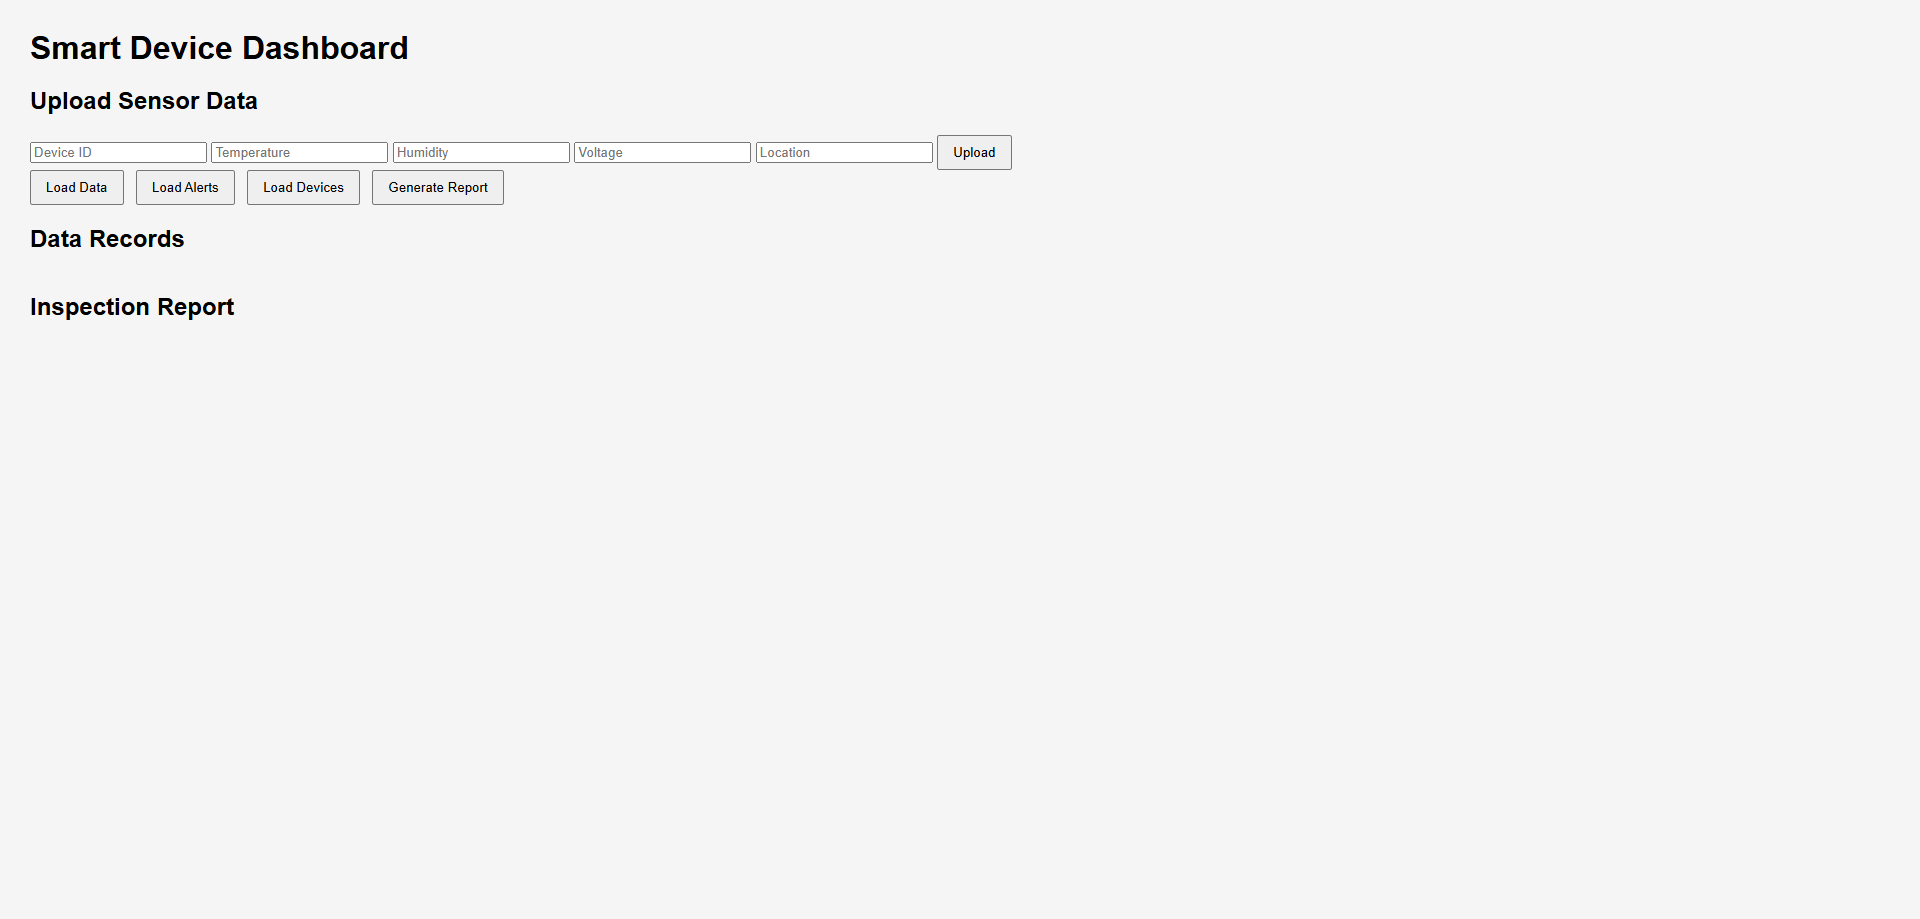
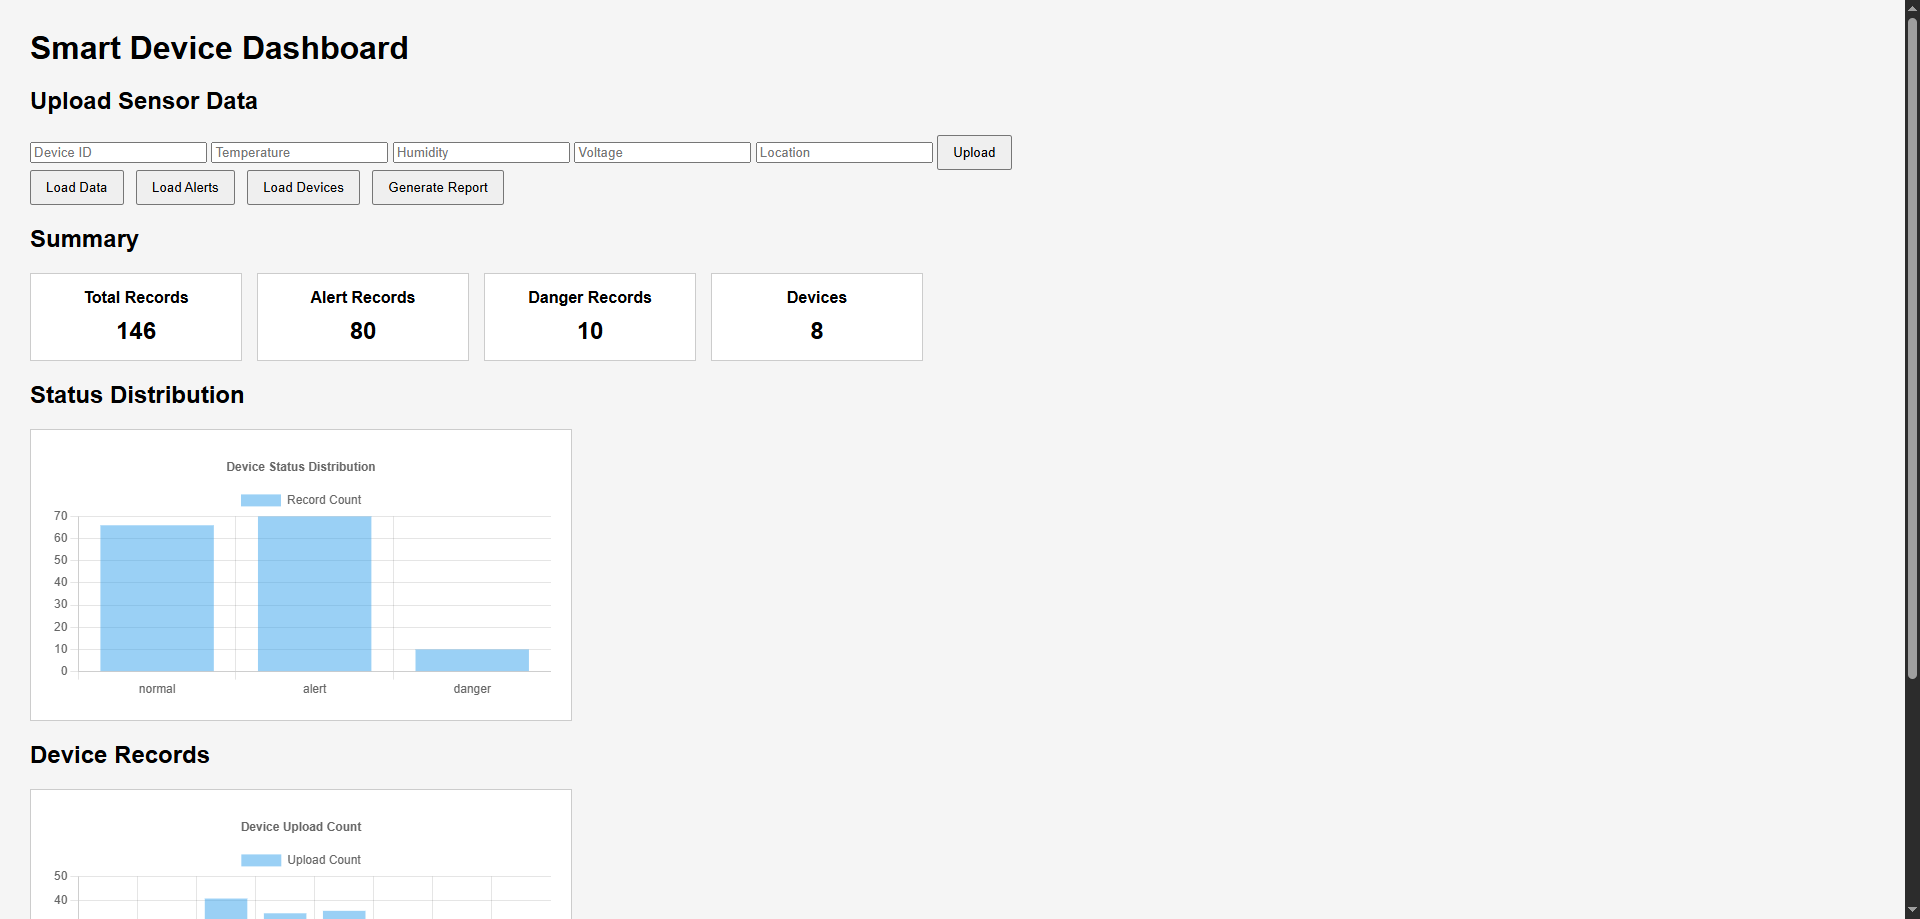
Update dashboard screenshot

diff --git a/frontend/dashboard.html b/frontend/dashboard.html
@@ -131,6 +131,11 @@
     <div class="chart-container">
         <canvas id="status-chart"></canvas>
     </div>
+    <h2>Device Records</h2>
+
+    <div class="chart-container">
+        <canvas id="device-chart"></canvas>
+    </div>
     <h2 id="section-title">Data Records</h2>
 
     <table border="1">
@@ -141,6 +146,7 @@
     <pre id="report-box"></pre>
     <script>
         let statusChart = null;
+        let deviceChart = null;
         async function loadData() {
             try {
                 const response = await fetch("http://127.0.0.1:8000/data");
@@ -286,6 +292,9 @@
                 document.getElementById("alert-records").innerText = alertRecords;
                 document.getElementById("danger-records").innerText = dangerRecords;
                 document.getElementById("device-count").innerText = deviceCount;
+
+                renderStatusChart(dataResult.data);
+                renderDeviceChart(devicesResult.devices);
             } catch (error) {
                 console.error("加载统计数据失败:", error);
                 alert("加载统计数据失败，请打开控制台查看错误");
@@ -395,6 +404,43 @@
                         title: {
                             display: true,
                             text: "Device Status Distribution"
+                        }
+                    }
+                }
+            });
+        }
+        function renderDeviceChart(devices) {
+            const labels = [];
+            const totals = [];
+
+            for (const device of devices) {
+                labels.push(device.device_id);
+                totals.push(device.total);
+            }
+
+            const ctx = document.getElementById("device-chart");
+
+            if (deviceChart !== null) {
+                deviceChart.destroy();
+            }
+
+            deviceChart = new Chart(ctx, {
+                type: "bar",
+                data: {
+                    labels: labels,
+                    datasets: [
+                        {
+                            label: "Upload Count",
+                            data: totals
+                        }
+                    ]
+                },
+                options: {
+                    responsive: true,
+                    plugins: {
+                        title: {
+                            display: true,
+                            text: "Device Upload Count"
                         }
                     }
                 }